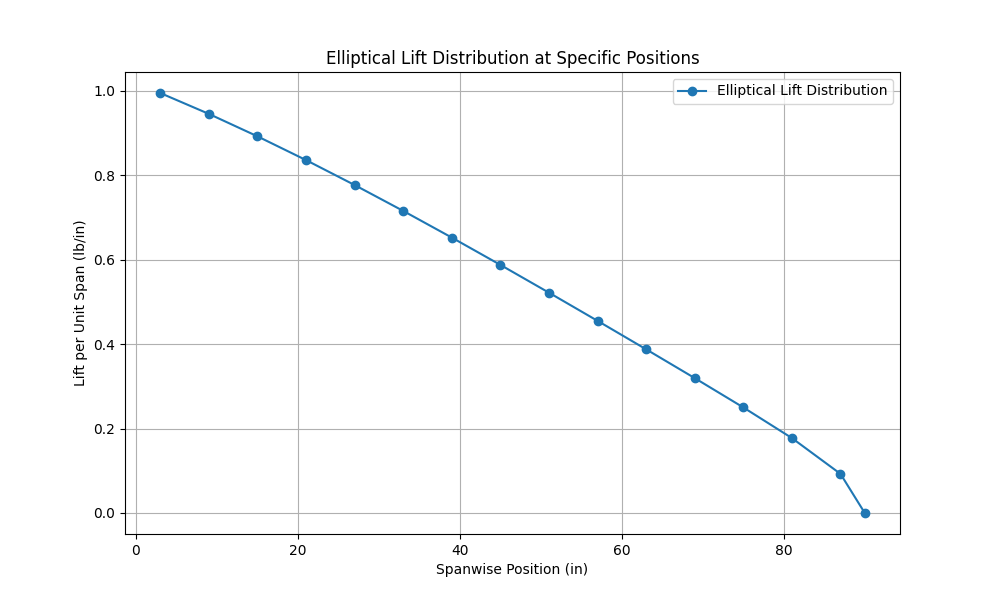
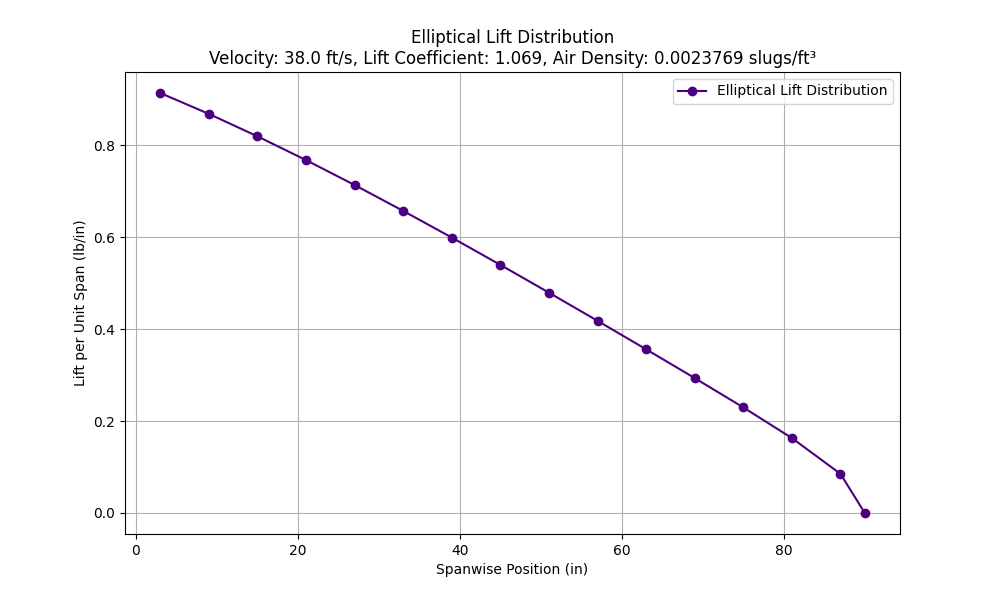
update 6

diff --git a/Prandtl_Elliptical_Lift_Distribution.py b/Prandtl_Elliptical_Lift_Distribution.py
@@ -3,115 +3,112 @@ import numpy as np
 import matplotlib.pyplot as plt
 import logging
 
-# Configure logging
-logging.basicConfig(filename='lift_distribution.log', level=logging.INFO, 
-                    format='%(asctime)s - %(levelname)s - %(message)s')
+class EllipticalLiftDistribution:
+    def __init__(self, span, lift_coefficient, rho, velocity, root_chord, tip_chord, output_folder='Wing_Loading'):
+        self.span = span
+        self.lift_coefficient = lift_coefficient
+        self.rho = rho
+        self.velocity = velocity
+        self.root_chord = root_chord
+        self.tip_chord = tip_chord
+        self.output_folder = output_folder
+        os.makedirs(self.output_folder, exist_ok=True)
+        logging.info(f"Parameters: span={span} in, lift_coefficient={lift_coefficient}, rho={rho}, velocity={velocity} ft/s, root_chord={root_chord} in, tip_chord={tip_chord} in")
 
-# Define parameters in imperial units (inches)
-span = 15 * 12  # Total wingspan in inches
-lift_coefficient = 1.165  # Lift coefficient (CL)
-rho = 0.0023769  # Air density in slugs/ft³
-velocity = 38.0  # Flight velocity in feet per second
-root_chord = 3 * 12  # Root chord length in inches
-tip_chord = 1 * 12  # Tip chord length in inches
+    def lift_at_position(self, y_position):
+        b = self.span / 2  # Semi-span
+        taper_ratio = self.tip_chord / self.root_chord
+        chord_length = self.root_chord * (1 - (1 - taper_ratio) * y_position / b)  # Linear taper
+        lift = (4 * self.lift_coefficient * self.rho * self.velocity**2 * chord_length) / (np.pi * self.span) * np.sqrt(1 - (y_position / b)**2)
+        return lift, chord_length  # Return lift in lb/in
 
-logging.info(f"Parameters: span={span} in, lift_coefficient={lift_coefficient}, rho={rho}, velocity={velocity} ft/s, root_chord={root_chord} in, tip_chord={tip_chord} in")
+    def calculate_distributions(self, positions):
+        lifts_and_chords = [self.lift_at_position(pos) for pos in positions]
+        lifts_and_chords[-1] = (0, self.tip_chord)  # Add zero lift at the wingtip
 
-# Create a folder for the plots if it doesn't exist
-output_folder = 'Wing_Loading'
-os.makedirs(output_folder, exist_ok=True)
+        loads = np.zeros(len(positions))
+        for i in range(len(positions) - 1):
+            delta_pos = positions[i + 1] - positions[i]
+            loads[i] = lifts_and_chords[i][0] * delta_pos
+        loads[-1] = lifts_and_chords[-1][0] * (positions[-1] - positions[-2])
 
-# Function to find lift at a specific spanwise position
-def lift_at_position(y_position, span, lift_coefficient, rho, velocity, root_chord, tip_chord):
-    b = span / 2  # Semi-span
-    taper_ratio = tip_chord / root_chord
-    chord_length = root_chord * (1 - (1 - taper_ratio) * y_position / b)  # Linear taper
-    lift = (4 * lift_coefficient * rho * velocity**2 * chord_length) / (np.pi * span) * np.sqrt(1 - (y_position / b)**2)
-    return lift, chord_length  # Return lift in lb/in
+        shear_forces = np.zeros(len(positions))
+        for i in range(len(positions) - 1, -1, -1):
+            if i == len(positions) - 1:
+                shear_forces[i] = 0  # Shear force at the wing tip is zero
+            else:
+                shear_forces[i] = shear_forces[i + 1] + loads[i]
 
-# Example: Find lift per unit span and load at specific positions
-positions = [0.25 * 12, 0.75 * 12, 1.25 * 12, 1.75 * 12, 2.25 * 12, 2.75 * 12, 3.25 * 12, 3.75 * 12, 4.25 * 12, 4.75 * 12, 5.25 * 12, 5.75 * 12, 6.25 * 12, 6.75 * 12, 7.25 * 12, 7.5 * 12]  # Example positions in inches
-lifts_and_chords = [lift_at_position(pos, span, lift_coefficient, rho, velocity, root_chord, tip_chord) for pos in positions]
+        bending_moments = np.zeros(len(positions))
+        for i in range(len(positions) - 1, -1, -1):
+            if i == len(positions) - 1:
+                bending_moments[i] = 0  # Bending moment at the wing tip is zero
+            else:
+                delta_pos = positions[i + 1] - positions[i]
+                bending_moments[i] = bending_moments[i + 1] + shear_forces[i] * delta_pos
 
-# Add zero lift at the wingtip
-lifts_and_chords[-1] = (0, tip_chord)
+        return lifts_and_chords, loads, shear_forces, bending_moments
 
-# Calculate the load at each position
-loads = np.zeros(len(positions))
-for i in range(len(positions) - 1):
-    delta_pos = positions[i + 1] - positions[i]
-    loads[i] = lifts_and_chords[i][0] * delta_pos
-# For the last position, use the difference with the previous position
-loads[-1] = lifts_and_chords[-1][0] * (positions[-1] - positions[-2])
+    def plot_distribution(self, positions, values, ylabel, title, filename, figure_num, color='b', fontweight='normal'):
+        plt.figure(num=figure_num, figsize=(10, 6))
+        plt.plot(positions, values, '-o', label=title, color=color)
+        plt.xlabel('Spanwise Position (in)')
+        plt.ylabel(ylabel)
+        plt.title(f"{title}\nVelocity: {self.velocity} ft/s, Lift Coefficient: {self.lift_coefficient}, Air Density: {self.rho} slugs/ft³", fontweight=fontweight)
+        plt.legend()
+        plt.grid(True)
+        plt.savefig(os.path.join(self.output_folder, filename))
+        plt.show()
+        logging.info(f"Plotted and saved the {title.lower()}")
 
-# Calculate the shear force at each position
-shear_forces = np.zeros(len(positions))
-for i in range(len(positions) - 1, -1, -1):
-    if i == len(positions) - 1:
-        shear_forces[i] = 0  # Shear force at the wing tip is zero
-    else:
-        shear_forces[i] = shear_forces[i + 1] + loads[i]
+    def log_results(self, positions, lifts_chords_loads_shear_moment):
+        for pos, (lift, chord, load, shear_force, bending_moment) in zip(positions, lifts_chords_loads_shear_moment):
+            logging.info(f"Lift per unit span at {pos:.2f} in: {lift:.2f} lb/in, Chord length: {chord:.2f} in, Load: {load:.2f} lb, Shear force: {shear_force:.2f} lb, Bending moment: {bending_moment:.2f} lb-in")
 
-# Calculate the bending moment at each position
-bending_moments = np.zeros(len(positions))
-for i in range(len(positions) - 1, -1, -1):
-    if i == len(positions) - 1:
-        bending_moments[i] = 0  # Bending moment at the wing tip is zero
-    else:
-        delta_pos = positions[i + 1] - positions[i]
-        bending_moments[i] = bending_moments[i + 1] + shear_forces[i] * delta_pos
+    def save_log_to_picture(self, log_filename='Wing_Loading_Log.log', output_filename='Wing_Loading_log.png'):
+        with open(log_filename, 'r') as log_file:
+            log_content = log_file.read()
 
-# Combine lift, chord, load, shear force, and bending moment into a single list
-lifts_chords_loads_shear_moment = [(lift, chord, load, shear_force, bending_moment) for (lift, chord), load, shear_force, bending_moment in zip(lifts_and_chords, loads, shear_forces, bending_moments)]
+        plt.figure(figsize=(10, 10))
+        plt.text(0.01, 0.99, log_content, verticalalignment='top', horizontalalignment='left', fontsize=10, family='monospace')
+        plt.axis('off')
+        plt.savefig(os.path.join(self.output_folder, output_filename))
+        plt.show()
 
-# Plot the lift distribution
-plt.figure(num=1, figsize=(10, 6))
-plt.plot(positions, [lift for lift, _, _, _, _ in lifts_chords_loads_shear_moment], '-o', label='Elliptical Lift Distribution')
-plt.xlabel('Spanwise Position (in)')
-plt.ylabel('Lift per Unit Span (lb/in)')
-plt.title('Elliptical Lift Distribution at Specific Positions')
-plt.legend()
-plt.grid(True)
-plt.savefig(os.path.join(output_folder, 'lift_distribution.png'))
-plt.show()
-logging.info("Plotted and saved the lift distribution")
+# Example usage
+if __name__ == "__main__":
+    # Configure logging
+    logging.basicConfig(filename='Wing_Loading_Log.log', level=logging.INFO, 
+                        format='%(asctime)s - %(levelname)s - %(message)s')
 
-# Plot the load distribution
-plt.figure(num=2, figsize=(10, 6))
-plt.plot(positions, loads, '-o', label='Load Distribution', color='b')
-plt.xlabel('Spanwise Position (in)')
-plt.ylabel('Load (lb)')
-plt.title('Load Distribution at Specific Positions')
-plt.legend()
-plt.grid(True)
-plt.savefig(os.path.join(output_folder, 'load_distribution.png'))
-plt.show()
-logging.info("Plotted and saved the load distribution")
+    # Define parameters in imperial units (inches)
+    span = 15 * 12  # Total wingspan in inches
+    lift_coefficient = 1.069  # Lift coefficient (CL)
+    rho = 0.0023769  # Air density in slugs/ft³
+    velocity = 38.0  # Flight velocity in feet per second
+    root_chord = 3 * 12  # Root chord length in inches
+    tip_chord = 1 * 12  # Tip chord length in inches
 
-# Plot the shear force distribution
-plt.figure(num=3, figsize=(10, 6))
-plt.plot(positions, shear_forces, '-o', label='Shear Force Distribution', color='r')
-plt.xlabel('Spanwise Position (in)')
-plt.ylabel('Shear Force (lb)')
-plt.title('Shear Force Distribution at Specific Positions')
-plt.legend()
-plt.grid(True)
-plt.savefig(os.path.join(output_folder, 'shear_force_distribution.png'))
-plt.show()
-logging.info("Plotted and saved the shear force distribution")
+    # Create an instance of the class
+    distribution = EllipticalLiftDistribution(span, lift_coefficient, rho, velocity, root_chord, tip_chord)
 
-# Plot the bending moment distribution
-plt.figure(num=4, figsize=(10, 6))
-plt.plot(positions, bending_moments, '-o', label='Bending Moment Distribution', color='g')
-plt.xlabel('Spanwise Position (in)')
-plt.ylabel('Bending Moment (lb-in)')
-plt.title('Bending Moment Distribution at Specific Positions')
-plt.legend()
-plt.grid(True)
-plt.savefig(os.path.join(output_folder, 'bending_moment_distribution.png'))
-plt.show()
-logging.info("Plotted and saved the bending moment distribution")
+    # Example positions in inches
+    positions = [0.25 * 12, 0.75 * 12, 1.25 * 12, 1.75 * 12, 2.25 * 12, 2.75 * 12, 3.25 * 12, 3.75 * 12, 4.25 * 12, 4.75 * 12, 5.25 * 12, 5.75 * 12, 6.25 * 12, 6.75 * 12, 7.25 * 12, 7.5 * 12]
 
-# Log the lift, chord length, load, shear force, and bending moment for each position
-for pos, (lift, chord, load, shear_force, bending_moment) in zip(positions, lifts_chords_loads_shear_moment):
-    logging.info(f"Lift per unit span at {pos:.2f} in: {lift:.2f} lb/in, Chord length: {chord:.2f} in, Load: {load:.2f} lb, Shear force: {shear_force:.2f} lb, Bending moment: {bending_moment:.2f} lb-in")
+    # Calculate distributions
+    lifts_and_chords, loads, shear_forces, bending_moments = distribution.calculate_distributions(positions)
+
+    # Combine lift, chord, load, shear force, and bending moment into a single list
+    lifts_chords_loads_shear_moment = [(lift, chord, load, shear_force, bending_moment) for (lift, chord), load, shear_force, bending_moment in zip(lifts_and_chords, loads, shear_forces, bending_moments)]
+
+    # Plot distributions
+    distribution.plot_distribution(positions, [lift for lift, _, _, _, _ in lifts_chords_loads_shear_moment], 'Lift per Unit Span (lb/in)', 'Elliptical Lift Distribution', 'lift_distribution.png', figure_num=1, color='Indigo')
+    distribution.plot_distribution(positions, loads, 'Load (lb)', 'Load Distribution', 'load_distribution.png', figure_num=2, color='Orange')
+    distribution.plot_distribution(positions, shear_forces, 'Shear Force (lb)', 'Shear Force Distribution', 'shear_force_distribution.png', figure_num=3, color='Red')
+    distribution.plot_distribution(positions, bending_moments, 'Bending Moment (lb-in)', 'Bending Moment Distribution', 'bending_moment_distribution.png', figure_num=4, color='Green')
+
+    # Log results
+    distribution.log_results(positions, lifts_chords_loads_shear_moment)
+
+    # Save log to picture
+    distribution.save_log_to_picture(log_filename='Wing_Loading_Log.log', output_filename='Wing_Loading_log.png')
